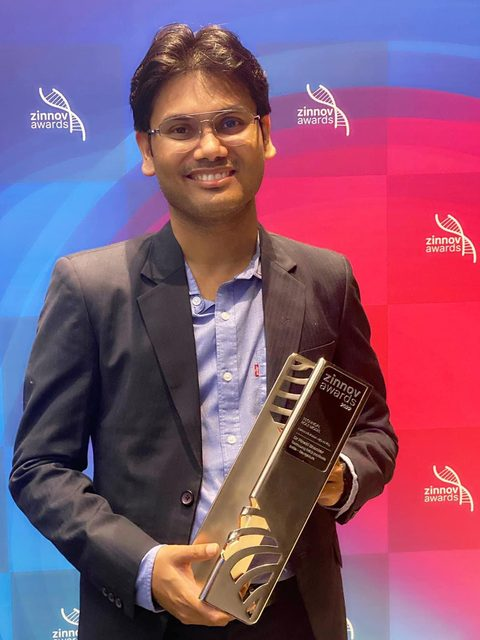
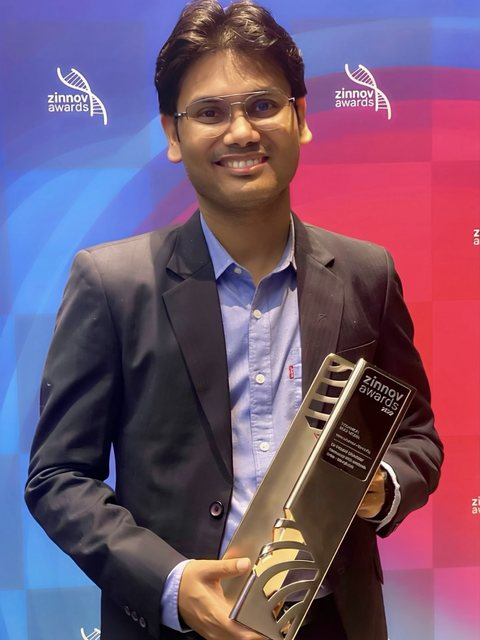
Recognition page: newer trophy photograph, opening full size
The award photo at the top of Awards & recognition is replaced with the
sharper version the owner supplied, cropped 3:4 from head to trophy, with
a 1200x1600 full-size copy that opens in the page's lightbox. Caption
unchanged: "With the Zinnov Awards 2022 Technical Role Model trophy."

diff --git a/recognition/index.html b/recognition/index.html
@@ -137,11 +137,14 @@
 
   <div class="recognition" data-reveal>
     <figure class="recognition__photo">
-      <picture class="plate">
-        <source type="image/webp" srcset="/assets/img/pinaki-bhaskar-zinnov-2022-480.webp 480w, /assets/img/pinaki-bhaskar-zinnov-2022-960.webp 960w" sizes="(min-width: 64rem) 272px, (min-width: 48rem) 232px, 160px">
-        <img src="/assets/img/pinaki-bhaskar-zinnov-2022-480.jpg" srcset="/assets/img/pinaki-bhaskar-zinnov-2022-480.jpg 480w, /assets/img/pinaki-bhaskar-zinnov-2022-960.jpg 960w" sizes="(min-width: 64rem) 272px, (min-width: 48rem) 232px, 160px"
-             width="480" height="640" alt="Dr. Pinaki Bhaskar holding the Zinnov Awards 2022 Technical Role Model trophy" loading="lazy" decoding="async">
-      </picture>
+      <!-- Opens full size in the page's lightbox (it is inside the awards section's data-lightbox group). -->
+      <a class="plate" href="/assets/img/pinaki-bhaskar-zinnov-2022-full.jpg" data-w="1200" data-h="1600" data-caption="With the Zinnov Awards 2022 Technical Role Model trophy" aria-label="With the Zinnov Awards 2022 Technical Role Model trophy (opens the photograph)">
+        <picture>
+          <source type="image/webp" srcset="/assets/img/pinaki-bhaskar-zinnov-2022-480.webp 480w, /assets/img/pinaki-bhaskar-zinnov-2022-960.webp 960w" sizes="(min-width: 64rem) 272px, (min-width: 48rem) 232px, 160px">
+          <img src="/assets/img/pinaki-bhaskar-zinnov-2022-480.jpg" srcset="/assets/img/pinaki-bhaskar-zinnov-2022-480.jpg 480w, /assets/img/pinaki-bhaskar-zinnov-2022-960.jpg 960w" sizes="(min-width: 64rem) 272px, (min-width: 48rem) 232px, 160px"
+               width="480" height="640" alt="Dr. Pinaki Bhaskar holding the Zinnov Awards 2022 Technical Role Model trophy" loading="lazy" decoding="async">
+        </picture>
+      </a>
       <figcaption>With the Zinnov Awards 2022 Technical Role Model trophy.</figcaption>
     </figure>
     <figure class="pullquote">

diff --git a/assets/css/site.css b/assets/css/site.css
@@ -896,6 +896,8 @@ html:not(.js) .site-header { position: static; }
    to the right of it from 48rem (the photo comes first in the HTML). */
 
 .recognition { display: grid; row-gap: var(--s-6); margin-block: clamp(3.5rem, 3rem + 3vw, 6rem); }
+.recognition__photo a.plate { display: block; background: var(--paper-2); transition: border-color 0.15s ease; }
+.recognition__photo a.plate:hover, .recognition__photo a.plate:focus-visible { border-color: var(--accent); }
 .recognition__photo { display: grid; grid-template-columns: 10.5rem minmax(0, 1fr); column-gap: var(--s-4); align-items: end; }   /* phones: a small plate, its caption hanging beside it */
 .pullquote::before { content: ""; display: block; width: 3rem; height: 2px; margin-bottom: var(--s-5); background: var(--accent); }
 .pullquote blockquote p {

diff --git a/README.md b/README.md
@@ -15,7 +15,7 @@ Pages serves it.
 | `assets/css/site.css` | Styles. Design tokens (colours, type scale, spacing) are at the top. |
 | `assets/js/site.js` | Progressive enhancement only: theme toggle, mobile menu, publication list (clipped until “Show all”, filters, search), copy-address button, photography lightbox. The page works without it. |
 | `assets/fonts/` | Self-hosted Fraunces + Inter (SIL Open Font License), latin subset, trimmed to the weights the site uses (Fraunces 300–600, optical size 12–72; Inter 400–700). Stay inside those ranges in `site.css`, or replace the files with the full variable fonts. |
-| `assets/img/` | Favicon, the social-share card (`og-card.png`), the portrait (`pinaki-bhaskar-320/640`), the award photo (`pinaki-bhaskar-zinnov-2022-480/960`) and `cards/` (the three home-page card images), each as WebP + JPEG. |
+| `assets/img/` | Favicon, the social-share card (`og-card.png`), the portrait (`pinaki-bhaskar-320/640`), the award photo (`pinaki-bhaskar-zinnov-2022-480/960/full`) and `cards/` (the three home-page card images), each as WebP + JPEG. |
 | `assets/photos/` | The Photography section's images: `<slug>-480.{webp,jpg}` (grid tile) and `<slug>-full.{webp,jpg}` (enlarged view). |
 | `assets/awards/` | Award certificates and photos: `<slug>-240.{webp,jpg}` (thumbnail) and `<slug>-full.{webp,jpg}`. |
 | `assets/certificates/` | Course certificates: the PDF plus a rendered `-480` thumbnail and `-full` image. |
